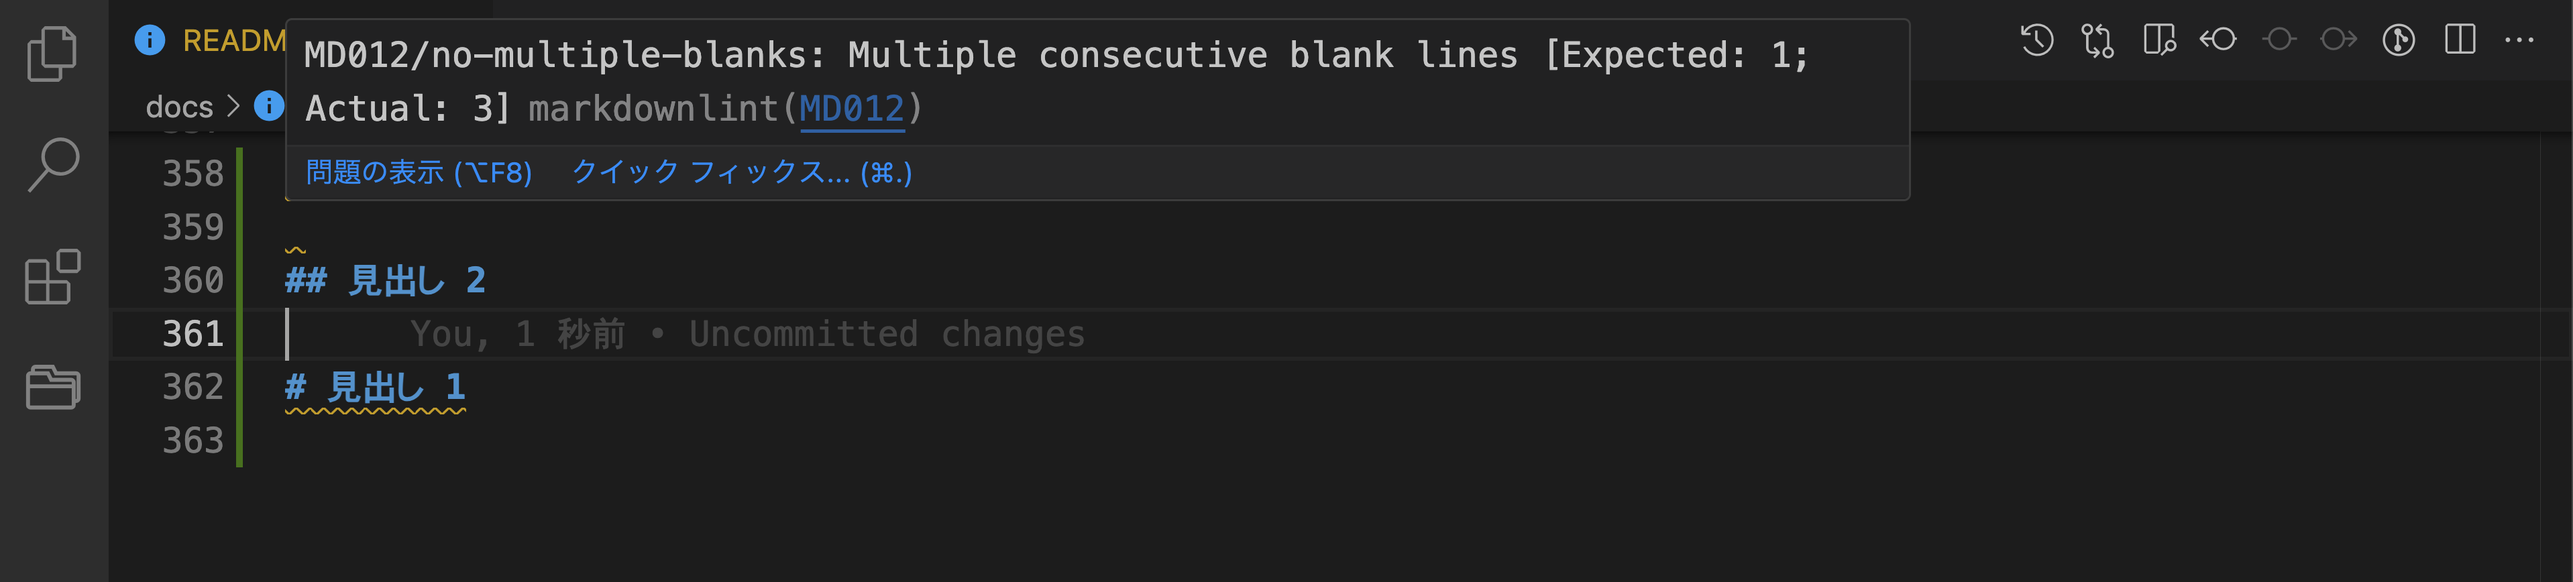
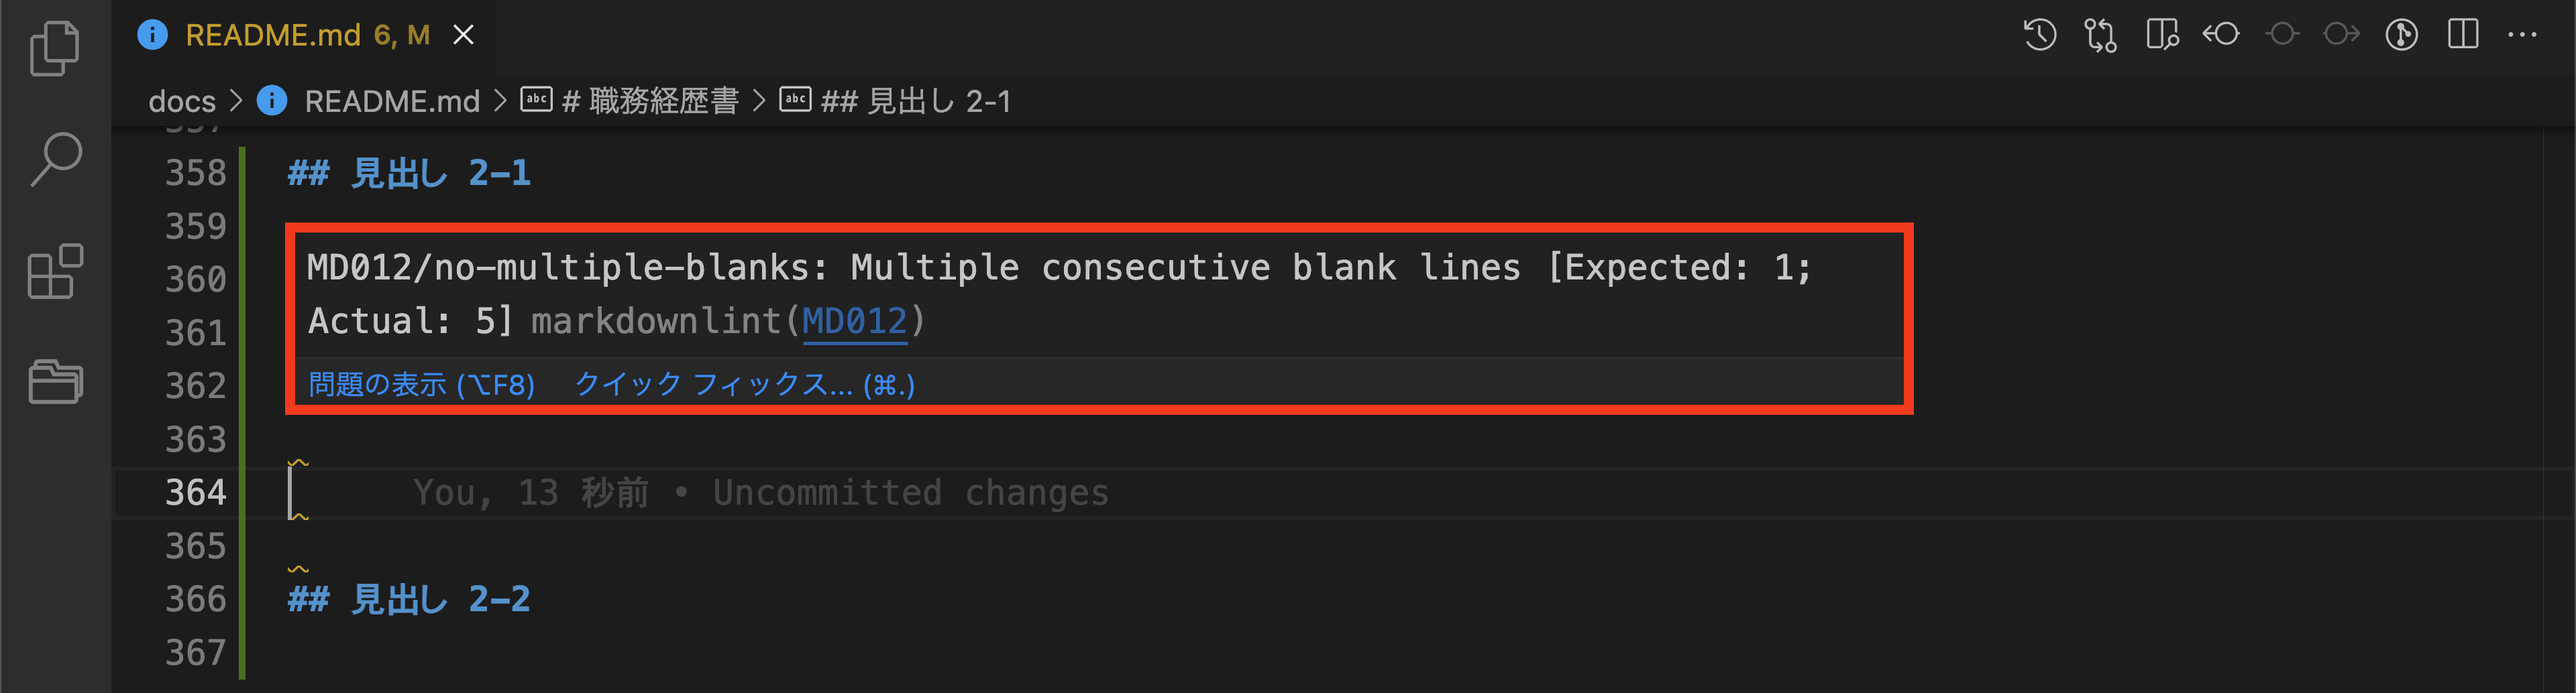
feat: VSCode の拡張機能の紹介箇所を改善

diff --git a/articles/2f925f621e6d99.md b/articles/2f925f621e6d99.md
@@ -389,14 +389,6 @@ npx textlint --init
 
 :::
 
-### textlint 用の VSCode 拡張機能を導入
-
-VSCode の拡張機能である [vscode-textlint](https://marketplace.visualstudio.com/items?itemName=taichi.vscode-textlint) を導入します。
-
-VSCode 上で textlint を動作させることで、毎回 textlint の実行コマンドを入力する手間を省けます。
-
-![vscode-textlint](/images/vscode-textlint.png)
-
 ## markdownlint を導入
 
 マークダウンの見栄えを良くするために、markdownlint も導入します。
@@ -418,14 +410,6 @@ npm install --save-dev markdownlint-cli
 }
 ```
 
-### markdownlint 用の VSCode 拡張機能を導入
-
-VSCode の拡張機能である [markdownlint](https://marketplace.visualstudio.com/items?itemName=DavidAnson.vscode-markdownlint) を導入します。
-
-VSCode 上で markdownlint を動作させることで、毎回 markdownlint の実行コマンドを入力する手間を省けます。
-
-![vscode-markdownlint](/images/vscode-markdownlint.png)
-
 ## Lint コマンドを設定
 
 `npm run lint` コマンドで Lint が実行できるように `package.json` を更新します。
@@ -443,6 +427,22 @@ VSCode 上で markdownlint を動作させることで、毎回 markdownlint の
 ```shell
 npm run lint
 ```
+
+## VSCode 拡張機能を導入
+
+こちらの設定は VSCode を使用している方向けとなります。
+
+textlint と markdownlint を VSCode 上で動作させる以下 2 つの拡張機能を導入します。
+
+VSCode 上で Lint を動作させることで、毎回 Lint の実行コマンドを入力する手間を省けます。
+
+- [vscode-textlint](https://marketplace.visualstudio.com/items?itemName=taichi.vscode-textlint)
+![vscode-textlint](/images/vscode-textlint.png)
+*上記では、JavaScript という正規の表現を使用するよう警告している*
+
+- [markdownlint](https://marketplace.visualstudio.com/items?itemName=DavidAnson.vscode-markdownlint)
+![vscode-markdownlint](/images/vscode-markdownlint.png)
+*上記では、連続した空白行を検出している*
 
 # 4. GitHub Actions を設定
 
